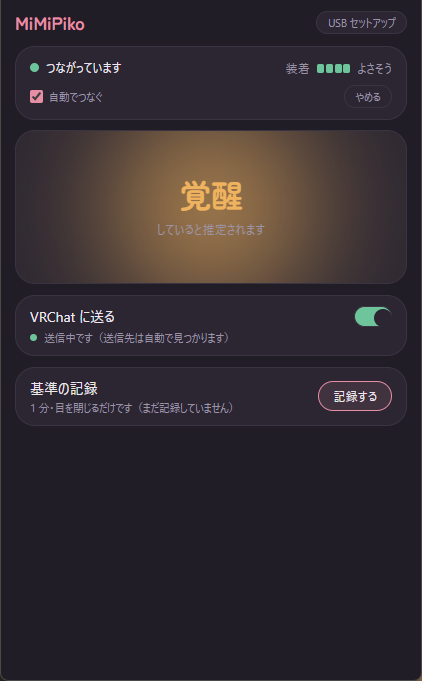
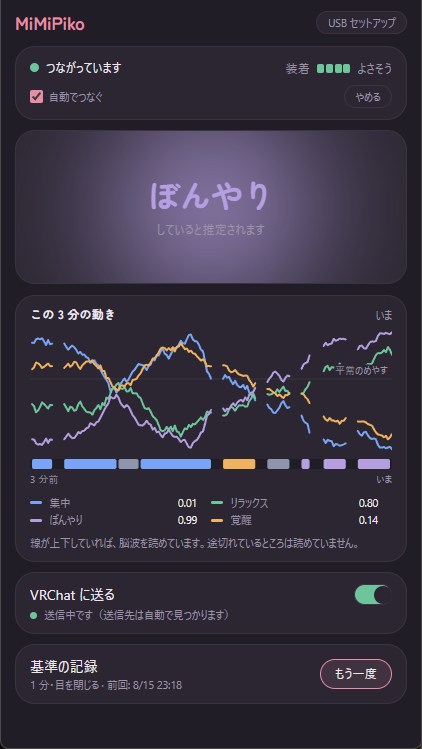
スクリーンショットを「この 3 分の動き」入りの最新アプリに更新
アプリに状態トレンド（直近 3 分の折れ線 + 確定状態の帯、f19a670）が
追加されたため、全画像を撮り直し、グラフの見方の説明を追加した。
タイトルバーの除去は今回も適用済み。

diff --git a/index.html b/index.html
@@ -300,6 +300,21 @@
           つけ直すと復帰します。
         </p>
 
+        <h3>この 3 分の動き</h3>
+        <figure class="row">
+          <img src="images/row-trend.png" alt="直近 3 分のグラフ" />
+        </figure>
+        <p>
+          直近 3 分間の各状態のスコア（0〜1）を折れ線で表示します。凡例の数値が
+          現在のスコアで、いちばん高い状態が上の状態表示に出ます（「平常」は
+          固定値のため、基準線として灰色で引かれています）。下の色帯は、そのとき
+          確定していた状態の履歴です。
+        </p>
+        <p>
+          線が上下していれば読み取りは正常に動いています。線が途切れている区間は、
+          電極の接触不足などで読み取れていなかった時間です。
+        </p>
+
         <h3>VRChat に送る</h3>
         <figure class="row">
           <img src="images/row-vrchat.png" alt="VRChat に送るスイッチ" />
